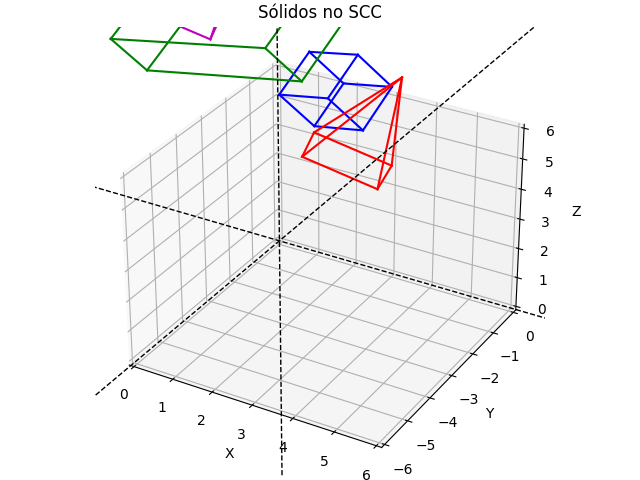
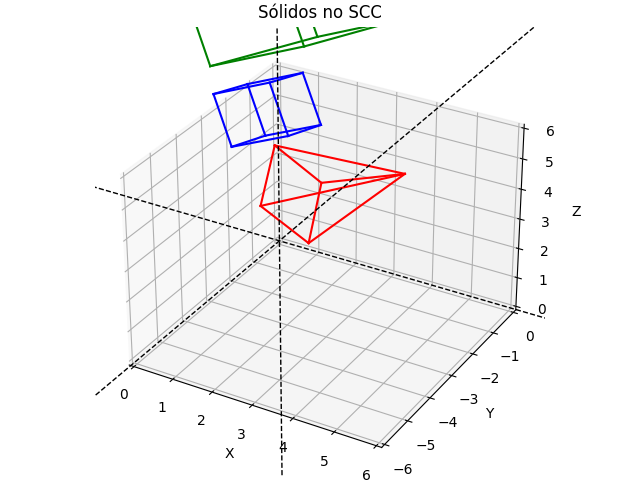
vetor up para (0, 1, 0)

Changed region(s): [[0.1562, 0.0625, 0.6562, 0.5312], [0.5625, 0.0312, 0.5938, 0.0625], [0.5312, 0.4375, 0.5625, 0.4688]]

diff --git a/trabalho2/questao3.py b/trabalho2/questao3.py
@@ -52,7 +52,7 @@ origem_camera = np.array([5, 4, -1])
 n = (cm_solidos - origem_camera)
 n_norm = np.sqrt(sum(n ** 2))
 
-up = np.array([0, 0, 1])  # vetor up, que indica a direção a ser usada como direção vertical da imagem
+up = np.array([0, 1, 0])  # vetor up, que indica a direção a ser usada como direção vertical da imagem
 
 v = up - (np.dot(up, n) / n_norm ** 2) * n
 

diff --git a/trabalho2/questao4.py b/trabalho2/questao4.py
@@ -30,7 +30,7 @@ if __name__ == '__main__':
     ax.set_title("Projeção nos eixos x e y dos sólidos")
     ax.set_xlabel('X')
     ax.set_ylabel('Y')
-    # ax.set_xlim(-6, 6)
+    ax.set_xlim(0, 6)
     ax.set_ylim(-6, 0)
     for solido in solidos:
         # Plotando vértices
